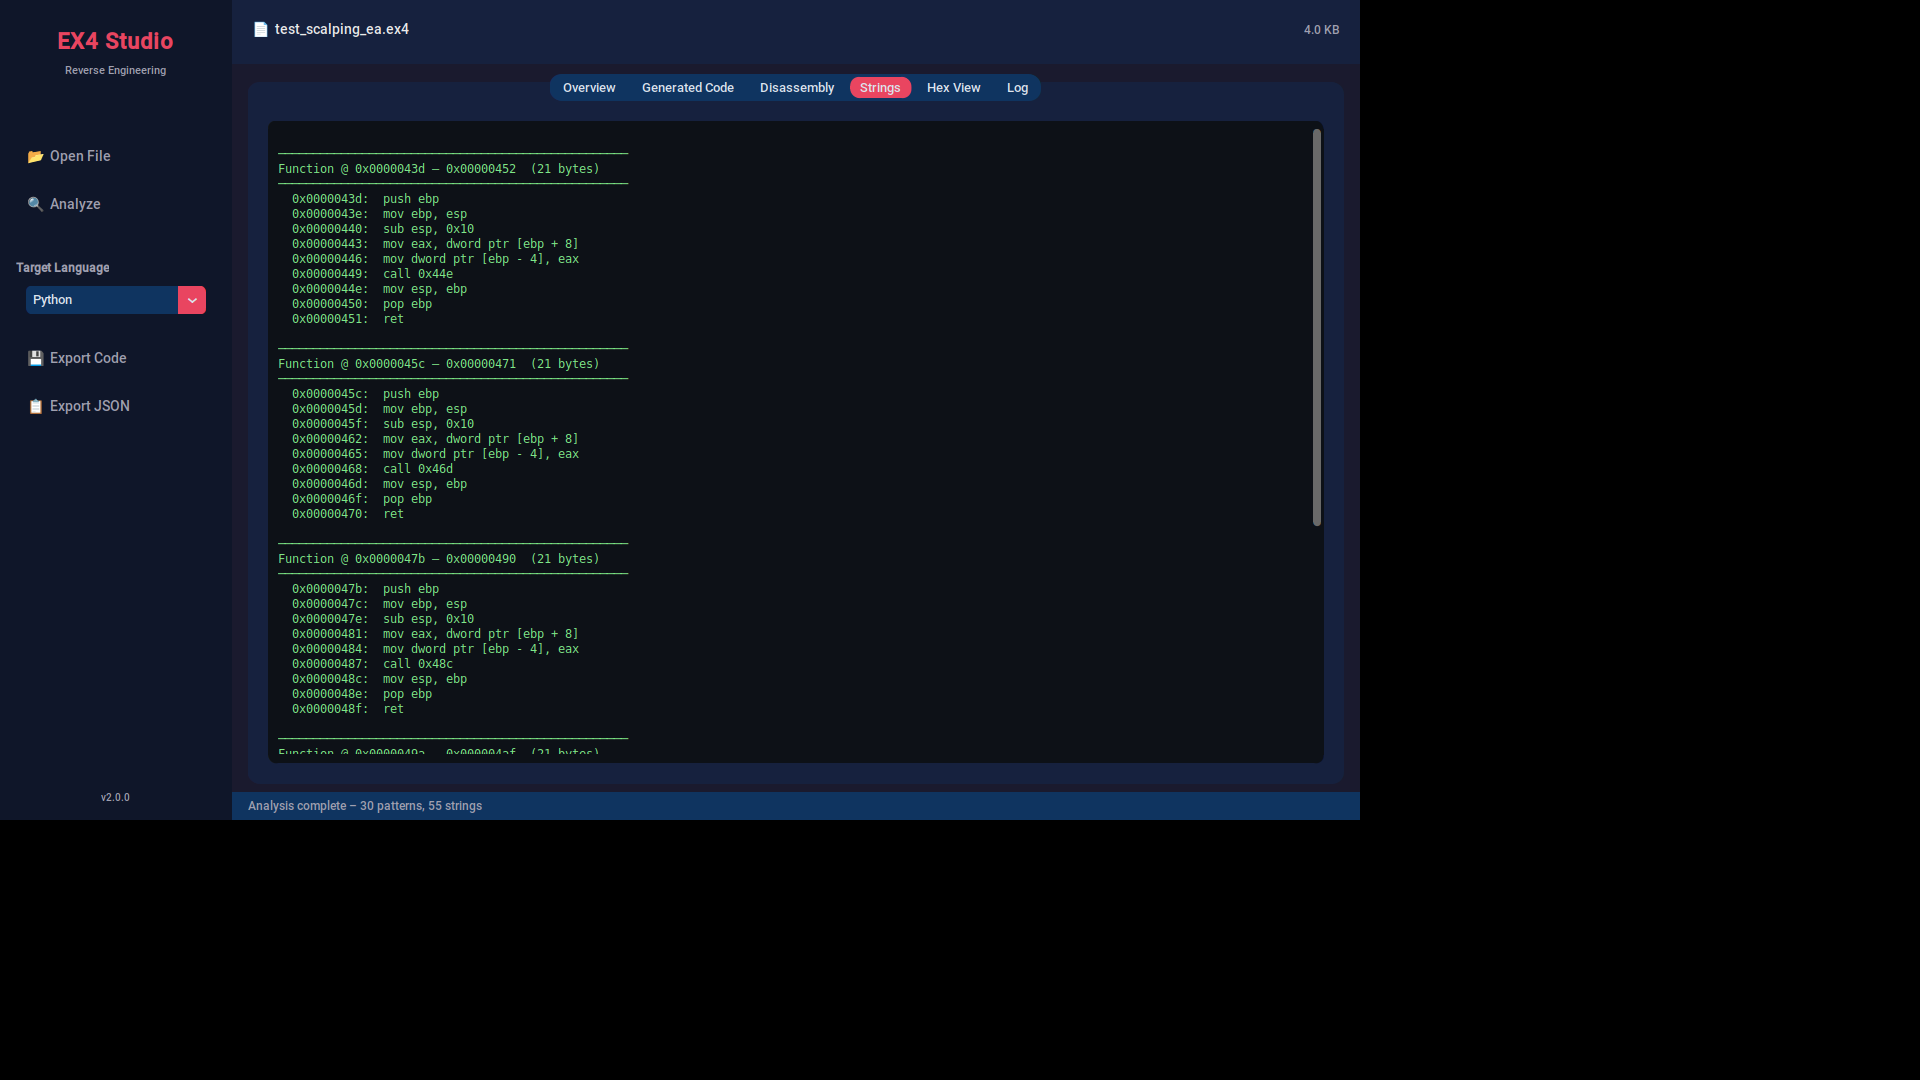
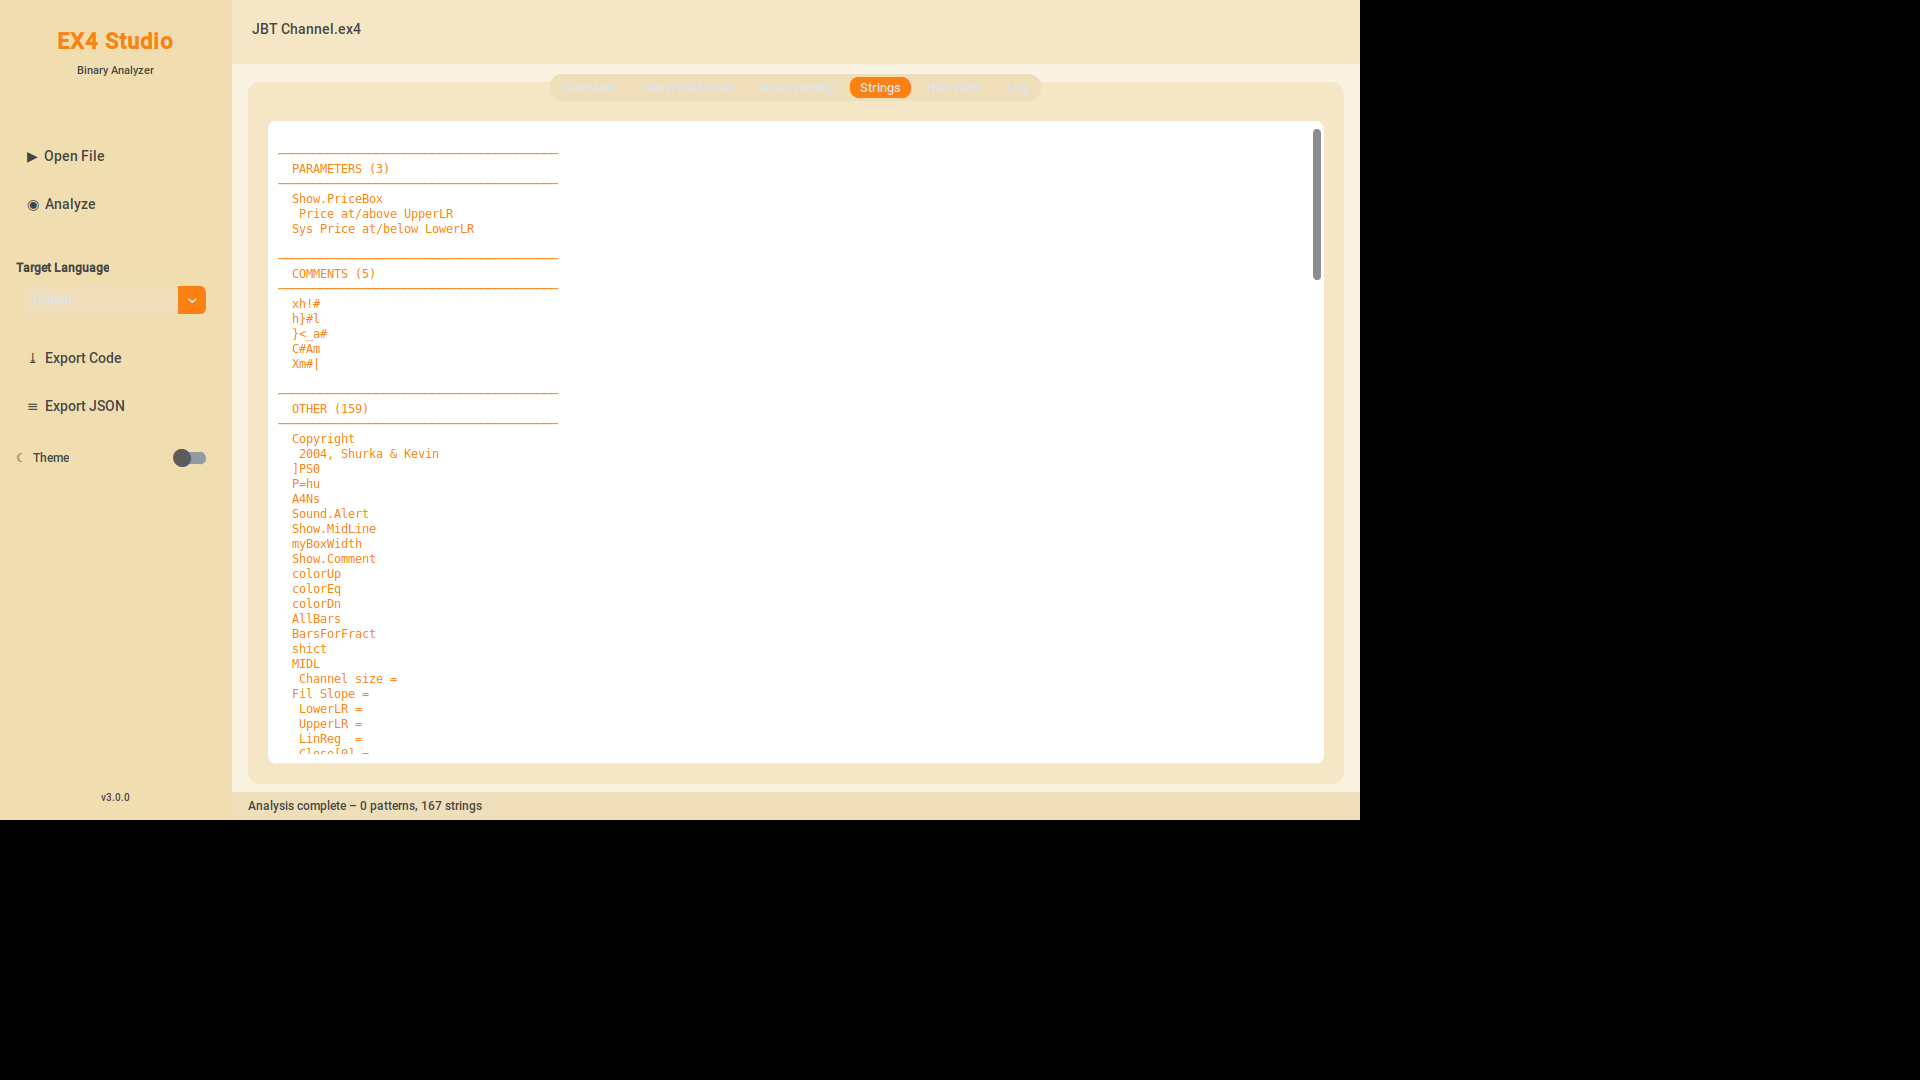
Add dark/light theme screenshots and fix method naming conflict
- Fix _apply_appearance_mode naming conflict with customtkinter parent class
- Set theme mode before super().__init__() to avoid conflicts
- Add dark theme screenshots (overview, code, hex, disassembly)
- Add light theme screenshots for all tabs
- Filter out sentence-like strings from parameter extraction

diff --git a/ex4_gui_app.py b/ex4_gui_app.py
@@ -1351,11 +1351,12 @@ class EX4StudioApp(ctk.CTk):
     HEIGHT = 820
 
     def __init__(self):
-        super().__init__()
-
-        # Detect OS theme
+        # Detect OS theme and set appearance before creating window
         self._theme_name = _detect_os_theme()
-        self._apply_appearance_mode()
+        ctk.set_appearance_mode("dark" if self._theme_name == 'dark' else "light")
+        ctk.set_default_color_theme("blue")
+
+        super().__init__()
 
         self.title("EX4 Studio")
         self.geometry(f"{self.WIDTH}x{self.HEIGHT}")
@@ -1374,7 +1375,7 @@ class EX4StudioApp(ctk.CTk):
         """Current theme colors."""
         return THEMES[self._theme_name]
 
-    def _apply_appearance_mode(self):
+    def _set_theme_mode(self):
         if self._theme_name == 'dark':
             ctk.set_appearance_mode("dark")
         else:
@@ -1653,7 +1654,7 @@ class EX4StudioApp(ctk.CTk):
             self._theme_name = 'light'
         else:
             self._theme_name = 'dark'
-        self._apply_appearance_mode()
+        self._set_theme_mode()
         # Rebuild entire UI with new theme
         for widget in self.winfo_children():
             widget.destroy()
